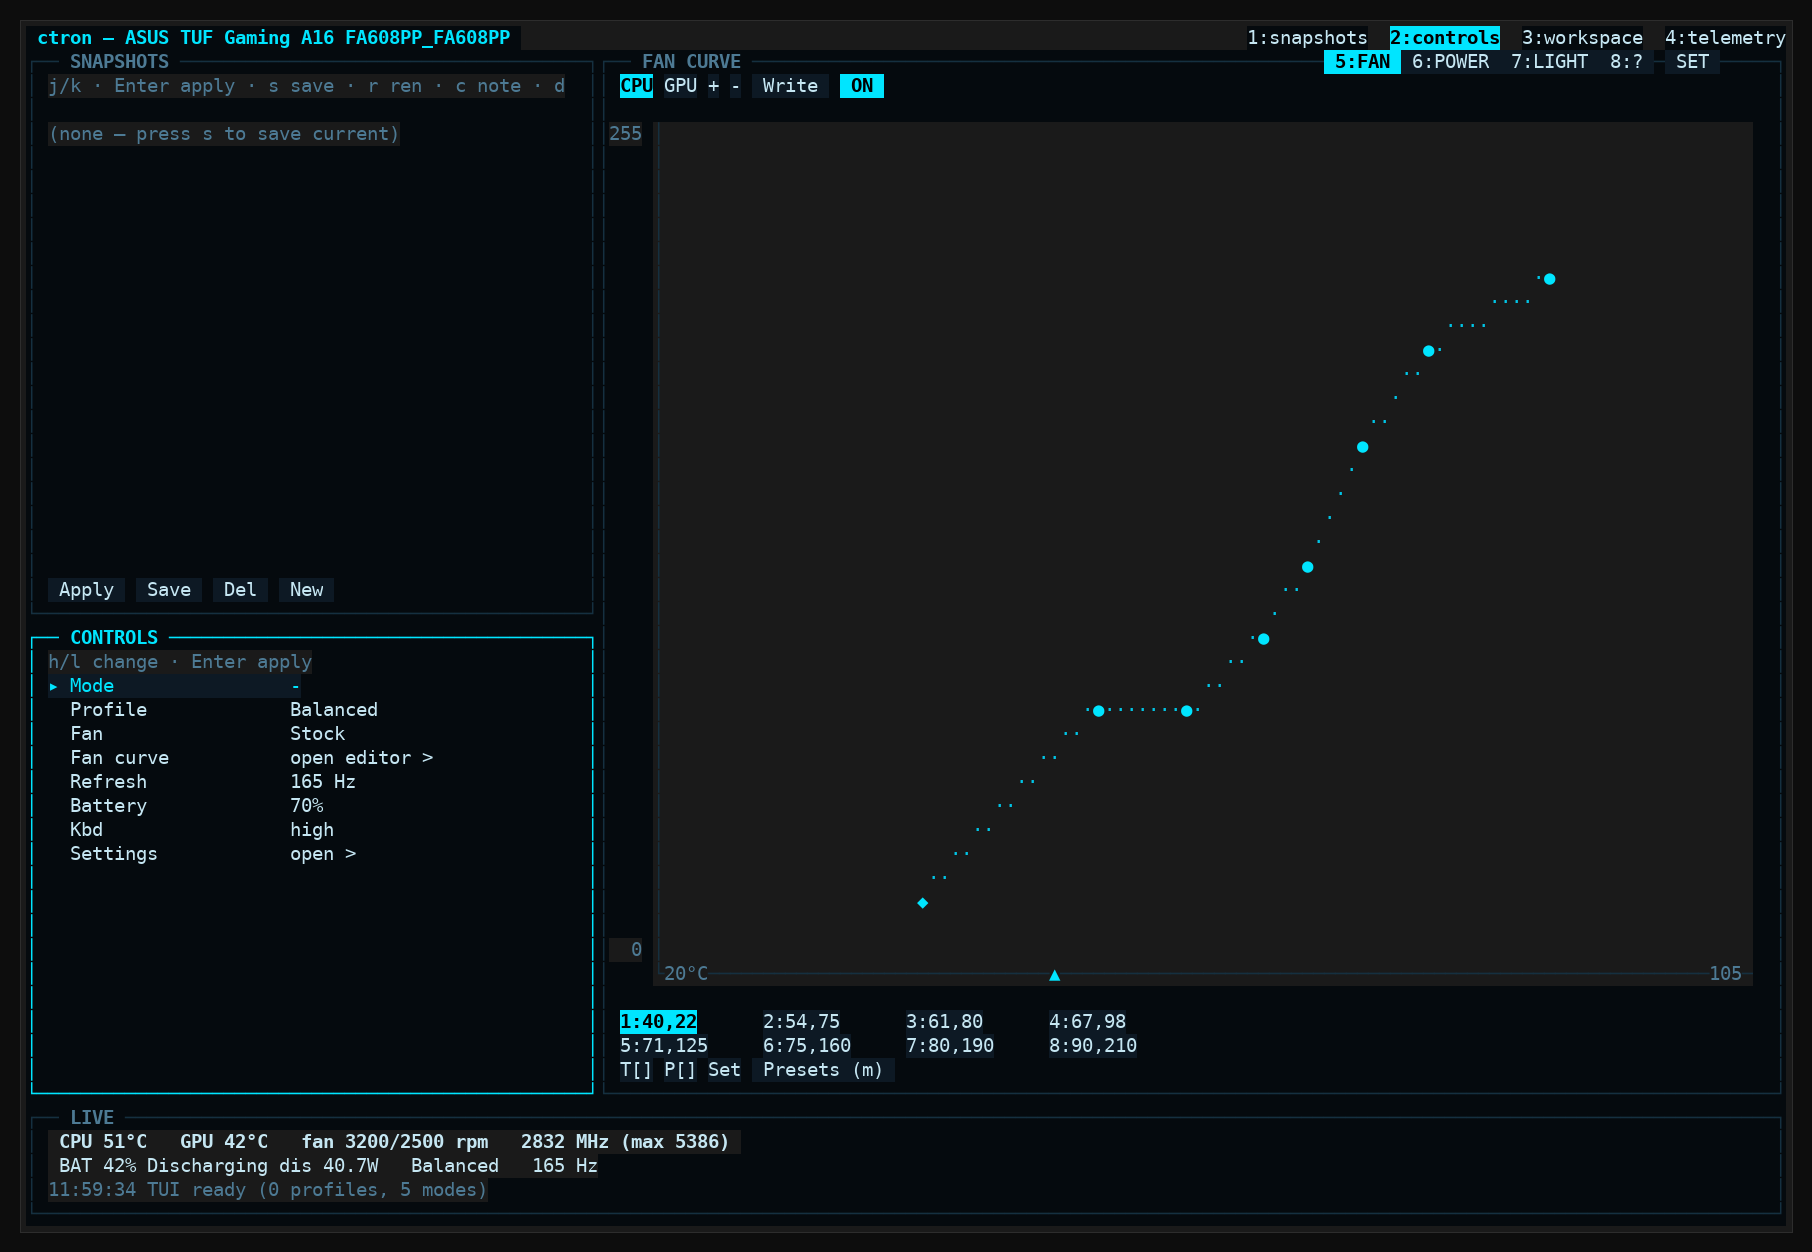
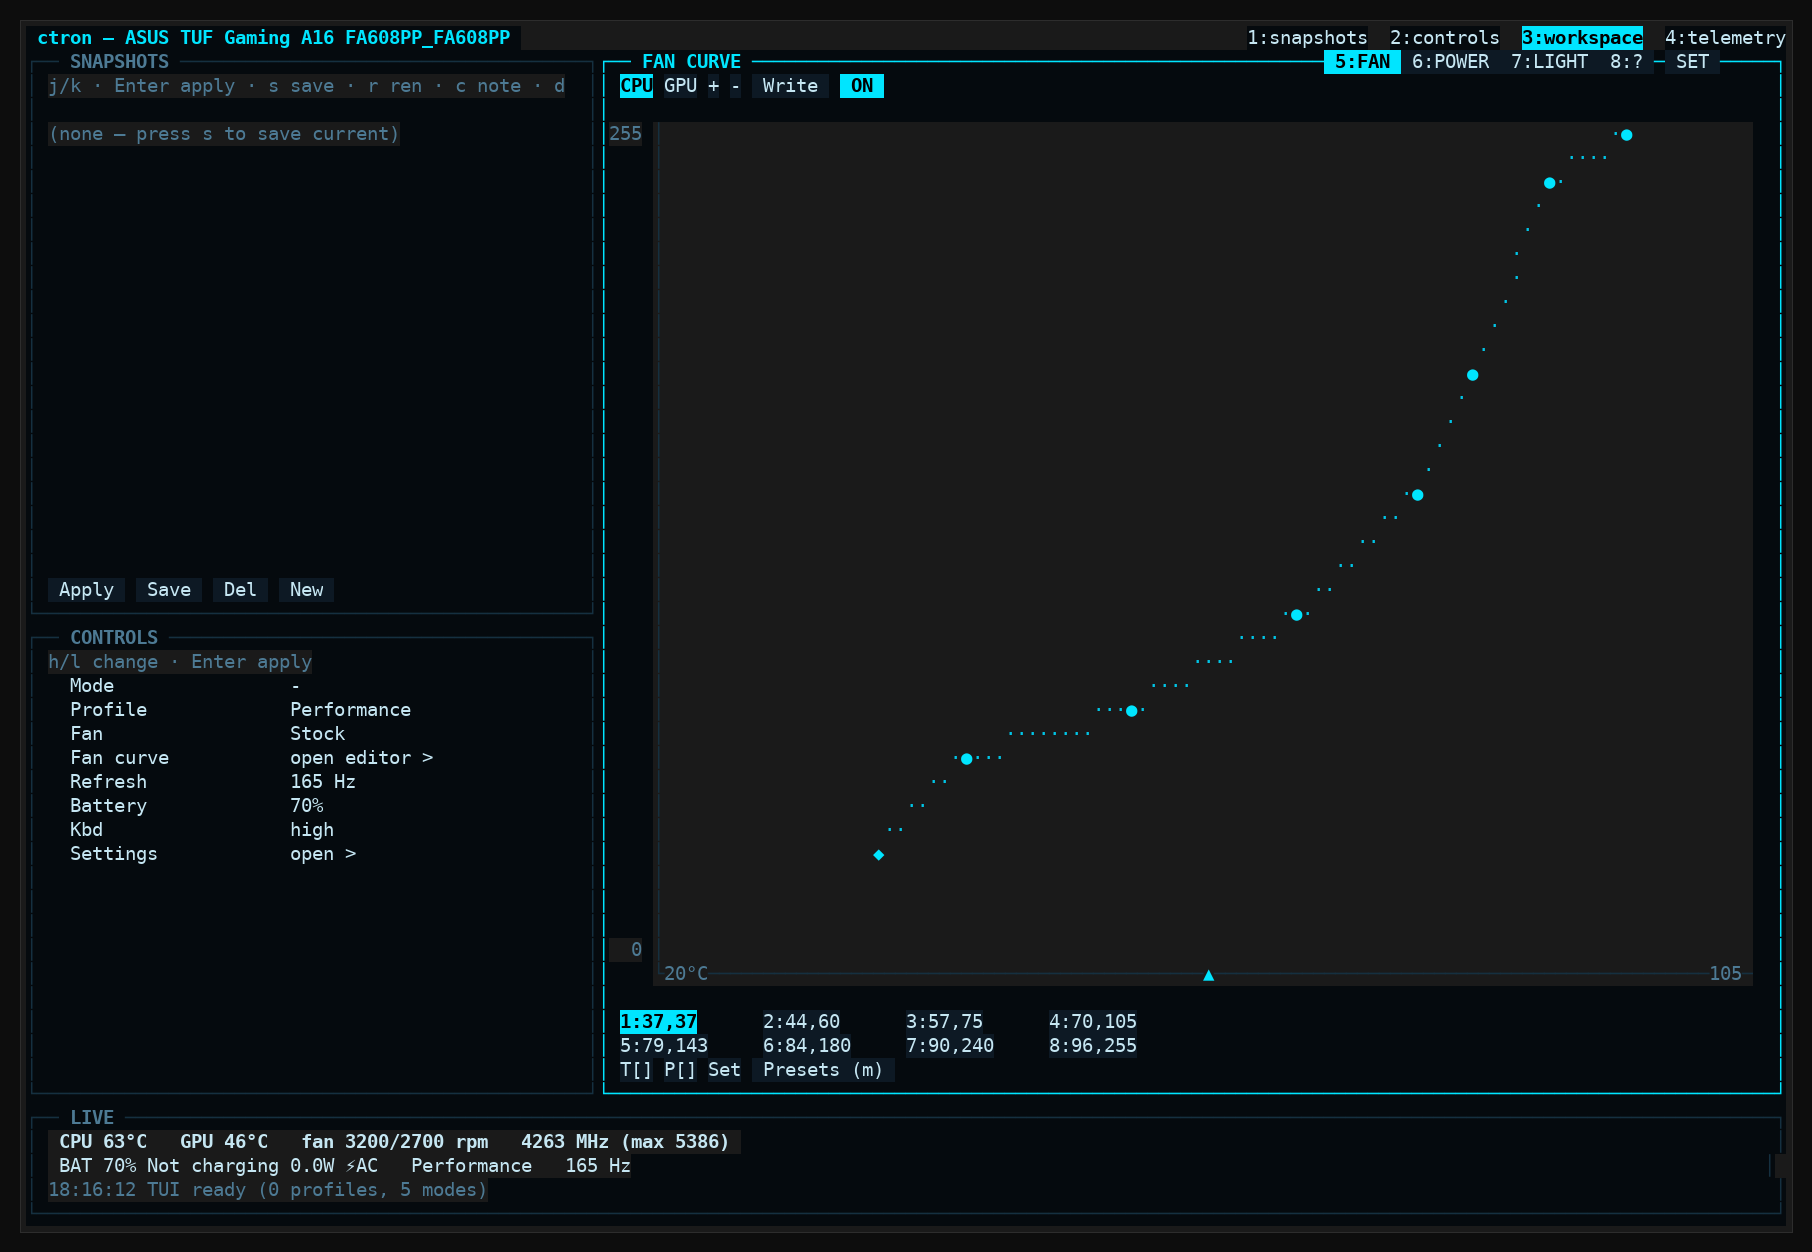
docs: README renewal - claim-by-claim verified (flag list = real --help, 5-8 keys, ring 24), kernel 7.2->7.2-7.3 re-verified live on 7.3.1-cachyos, code layout completed (main/telem/daeboard); HARDWARE FA608PP rows +7.3.1 re-verify EN+TR; fresh TUI screenshots; file audit: zero empty files

diff --git a/HARDWARE.md b/HARDWARE.md
@@ -20,7 +20,7 @@ ctron depends on four separate layers, so hardware support is
 
 | Device class | Expected | Why |
 |---|---|---|
-| TUF A16 FA608PP (Ryzen 9 + RTX 5070, CachyOS) | ✅ Full — verified on kernels **7.2** and **6.18-lts** | Everything present: armoury limits, fan curves, EPP, k10temp, nvidia-smi, `sudo -n`. On 6.18.52-cachyos-lts (2026-09-28) re-verified end to end: build 0 warnings, `make test` + `make tuitest` green, live status full (amd-pstate ceiling 5353/5386 MHz, custom-curve hwmon, fan write verify, KDE Hz). One quirk: the Quiet platform profile pins the cpuinfo ceiling to 2401 MHz (kernel behaviour, not a ctron bug). |
+| TUF A16 FA608PP (Ryzen 9 + RTX 5070, CachyOS) | ✅ Full — verified on kernels **7.2**, **7.3** and **6.18-lts** | Everything present: armoury limits, fan curves, EPP, k10temp, nvidia-smi, `sudo -n`. On 6.18.52-cachyos-lts (2026-09-28) re-verified end to end: build 0 warnings, `make test` + `make tuitest` green, live status full (amd-pstate ceiling 5353/5386 MHz, custom-curve hwmon, fan write verify, KDE Hz). On 7.3.1-cachyos (2026-11-19) re-verified: build 0 warnings, `make test` + `make tuitest` green, live status + doctor full. One quirk: the Quiet platform profile pins the cpuinfo ceiling to 2401 MHz (kernel behaviour, not a ctron bug). |
 | TUF A15 FA507NVR (Ryzen 7 + RTX 4060, NixOS, Hyprland 0.55) | ✅ Full, two exceptions — verified | No `asus-armoury` → PPT limits fall back to the generic 90/120/120 W ceiling and PPT reads go stale (`--` often); the rest behaves identically. |
 | ASUS ROG / Zephyrus (AMD + NVIDIA, current kernel) | 🟡 Expected to work — untested | Same ASUS WMI stack; scope is TUF, but the software layer is identical. |
 | ASUS + Intel CPU (TUF F15, Dash F15…) | 🟡 Partial | Fan curves, platform profile, panel OD and keyboard come from ASUS WMI → work. But `k10temp` is absent (ctron does not read coretemp → CPU temp `--`), the PPT attributes are AMD-model-specific → PPT rows dead, and Intel pstate has no `cpufreq/boost` file → the CPU boost key does nothing. EPP and the frequency limit work. |
@@ -210,7 +210,7 @@ değil, satır satır** belirlenir:
 
 | Cihaz sınıfı | Beklenen durum | Neden |
 |---|---|---|
-| TUF A16 FA608PP (Ryzen 9 + RTX 5070, CachyOS) | ✅ Tam — **7.2** ve **6.18-lts** kernel'lerde doğrulandı | Her şey var: armoury limitleri, fan eğrileri, EPP, k10temp, nvidia-smi, `sudo -n`. 6.18.52-cachyos-lts üzerinde (2026-09-28) uçtan uca yeniden doğrulandı: derleme 0 uyarı, `make test` + `make tuitest` yeşil, canlı durum tam (amd-pstate tavanı 5353/5386 MHz, custom-curve hwmon, fan yazma doğrulaması, KDE Hz). Tek tuhaflık: Quiet platform profili cpuinfo tavanını 2401 MHz'e kilitliyor (kernel davranışı, ctron hatası değil). |
+| TUF A16 FA608PP (Ryzen 9 + RTX 5070, CachyOS) | ✅ Tam — **7.2**, **7.3** ve **6.18-lts** kernel'lerde doğrulandı | Her şey var: armoury limitleri, fan eğrileri, EPP, k10temp, nvidia-smi, `sudo -n`. 6.18.52-cachyos-lts üzerinde (2026-09-28) uçtan uca yeniden doğrulandı: derleme 0 uyarı, `make test` + `make tuitest` yeşil, canlı durum tam (amd-pstate tavanı 5353/5386 MHz, custom-curve hwmon, fan yazma doğrulaması, KDE Hz). 7.3.1-cachyos üzerinde (2026-11-19) yeniden doğrulandı: derleme 0 uyarı, `make test` + `make tuitest` yeşil, canlı durum + doctor tam. Tek tuhaflık: Quiet platform profili cpuinfo tavanını 2401 MHz'e kilitliyor (kernel davranışı, ctron hatası değil). |
 | TUF A15 FA507NVR (Ryzen 7 + RTX 4060, NixOS, Hyprland 0.55) | ✅ Tam, iki istisna — doğrulandı | `asus-armoury` yok → PPT limitleri jenerik 90/120/120 W tavana düşer, PPT okuması sık bayatlar (`--`); geri kalanı birebir aynı çalışır. |
 | ASUS ROG / Zephyrus (AMD + NVIDIA, güncel kernel) | 🟡 Çalışması beklenir — test edilmedi | Aynı ASUS WMI yığını; kapsam TUF ama yazılım katmanı birebir aynı. |
 | ASUS + Intel CPU (TUF F15, Dash F15…) | 🟡 Kısmi | Fan eğrileri, platform profili, panel OD ve klavye ASUS WMI'den gelir → çalışır. Ama `k10temp` yok (ctron coretemp okumuyor → CPU sıcaklığı `--`), PPT attr'ları AMD modeline özgü → PPT satırları ölü, Intel pstate'te `cpufreq/boost` dosyası yok → CPU boost anahtarı işlevsiz. EPP ve frekans limiti çalışır. |

diff --git a/HANDOFF.md b/HANDOFF.md
@@ -1,6 +1,49 @@
 # Ctron Handoff
 
-Latest session — **2026-11-17 (audit rounds A1–A6: AUDIT.md born,
+Latest session — **2026-11-19 (file audit + README renewal: fresh
+screenshots, kernel 7.2–7.3 claim, code layout completed)**
+
+**GLM / Kerempkl / FA608PP** — user asked to check the project for
+empty/unnecessary files and renew the README, suspecting stale info
+("yanlış bilgiler gördüm gibi dikkatli ol").
+
+- **File audit**: zero empty files anywhere (tracked or ignored);
+  every tracked file has a purpose (PLAN.md/PLANS.md are
+  self-labeled historical records, linked from README's doc table).
+  Cleaned scripts/__pycache__ (gitignored, regenerates). NEXT.md
+  carries an UNCOMMITTED 11-01-era addition (item 20 + Rembrandt
+  field notes) from a previous session — deliberately left out of
+  this commit; user decides.
+- **README verified claim-by-claim against code/binary** (not
+  eyeballed): full flag list byte-identical to the real --help
+  (modulo argv[0]); `5`–`8` = fan/power/light/help (ui.c:965-983);
+  `1`–`4` focus map; ESC opens the settings overlay which CONTAINS
+  CLI SHORTCUTS (both README mentions consistent); footer ring =
+  UT_LOG_ENTRIES 24 (util.h:123); fan preset labels Quiet/Balanced/
+  Performance/Active-Live (editor_fan.c:540); GitHub anchors;
+  parked list = NEXT.md's single list; polkit = SECURITY.md
+  Phase 3; badge v0.9.0 = main.c = flake.nix.
+- **Real drift found and fixed (3 items)**: (1) kernel claim 7.2 →
+  7.2–7.3 — the machine now runs 7.3.1-cachyos and today's live
+  re-verification backs the claim (full rebuild 0 warnings, make
+  test, full make tuitest, --status, --doctor; HARDWARE.md FA608PP
+  rows EN+TR got the 7.3.1 re-verify line so matrix and README stay
+  in sync); (2) the "Layout of the code" block was missing
+  main.c/telem.c/daeboard.c — added; (3) stray space in
+  "( SECURITY.md Phase 3)".
+- **docs/tui-{fan,power,telem}.png re-shot** with the 11-19 build
+  via scripts/tui_screenshot.py (isolated CTRON_CONFIG). The image
+  analyzer MCP rejected the harness CDN URLs, so verification was a
+  pixel-stat comparison against the 10-30 set: identical
+  dimensions, near-identical unique-color counts — same layout,
+  fresh live values, no render drift.
+
+Signed: **GLM 5.3** — file audit, README/HARDWARE renewal,
+screenshots, verification.
+
+*Date: 2026-11-19*
+
+Before that **2026-11-17 (audit rounds A1–A6: AUDIT.md born,
 A5/A6 findings fixed same day)**
 
 **GLM / Kerempkl / FA608PP** — user asked for a comprehensive

diff --git a/README.md b/README.md
@@ -39,7 +39,7 @@ Working principles, enforced in code:
 - Unknown reads print `--`, never fabricated fallback data.
 
 Verified on an **ASUS TUF Gaming A16 FA608PP** (Ryzen 9 8940HX + RTX 5070
-Max-Q, CachyOS, KDE Plasma Wayland, kernel 7.2) and a **TUF A15
+Max-Q, CachyOS, KDE Plasma Wayland, kernels 7.2–7.3) and a **TUF A15
 FA507NVR** (Ryzen 7 7435HS + RTX 4060, NixOS, Hyprland 0.55) — same
 picture with two kernel-related exceptions. Support beyond these
 machines depends on the ASUS WMI stack, CPU vendor, NVIDIA driver and
@@ -290,6 +290,7 @@ itself never listens for the key (it is a TUI/CLI, not a daemon).
 
 ```
 src/
+  main.c        CLI parsing + VERSION; no args = TUI, any arg = headless
   util.c        sysfs/exec/log helpers (single place for privilege writes)
   hw.c          read layer: fast poll (temp/RPM/battery) + full snapshot
   control.c     write layer: profile/EPP/PPT/battery/fan/kbd/Hz
@@ -298,6 +299,8 @@ src/
   modes.c       user shortcut bundles (modes.ini)
   profile.c     snapshots (.ctr files, free-form names)
   settings.c    prefs + hardware persistence
+  telem.c       sample rings + stats for the 't' screen (pure, unit-tested)
+  daeboard.c    optional LED daemon client (AF_UNIX seqpacket socket)
   ui/           fullscreen TUI: layout engine + independent panels
   display/      compositor backends (see above)
 tests/          unit tests (make test)
@@ -310,7 +313,7 @@ tests/          unit tests (make test)
 Open work is tracked in [NEXT.md](NEXT.md) (single source). Intentionally
 parked: Waybar color sync · MUX / dGPU switch (needs a reboot flow) ·
 `throttle_thermal_policy` (overlaps platform profiles) · wlr-randr /
-xrandr backends · UI language table (EN/TR) · polkit helper ( SECURITY.md
+xrandr backends · UI language table (EN/TR) · polkit helper (SECURITY.md
 Phase 3) · per-key keyboard color (single-zone keyboard).
 
 ## Documentation

diff --git a/CHANGELOG.md b/CHANGELOG.md
@@ -1,5 +1,25 @@
 # Changelog
 
+## 2026-11-19 — docs: README renewal + repo file audit (fresh screenshots, kernel 7.2–7.3, code layout completed)
+
+- File audit (user ask): zero empty files; no unnecessary tracked
+  files (PLAN/PLANS self-labeled history); scripts/__pycache__
+  removed (ignored, regenerates). NEXT.md keeps an uncommitted
+  11-01 addition (item 20 + Rembrandt notes) — untouched, user
+  decides.
+- README: every claim re-verified against code/binary (flag list =
+  real --help byte-for-byte; `5`–`8` view keys; footer ring 24;
+  anchors; parked list). Fixed: kernel "7.2" → "7.2–7.3"
+  (re-verified live on 7.3.1-cachyos: rebuild 0 warnings, make
+  test, full tuitest, --status, --doctor); "Layout of the code"
+  gained main.c/telem.c/daeboard.c; stray space in
+  "( SECURITY.md Phase 3)".
+- HARDWARE.md: FA608PP rows (EN+TR) record the 7.3.1-cachyos
+  re-verification (2026-11-19).
+- docs/tui-{fan,power,telem}.png re-shot with the current build;
+  pixel-stat-compared against the 10-30 set (same layout, fresh
+  values).
+
 ## 2026-11-17 — audit FINAL items closed: I3/I5, K3/K4, L2/L3 (+ small honesty fixes)
 
 - I3: ctron uses no perf PMU (per-core proxy is /proc/stat-based);
